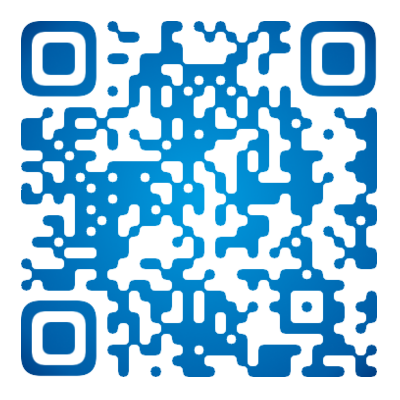
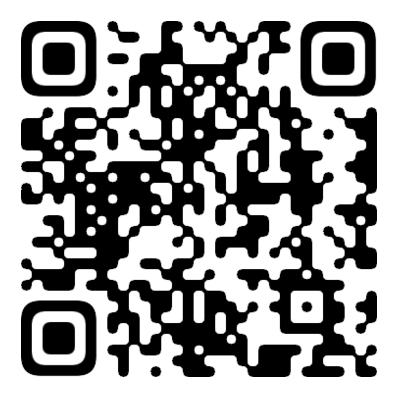
Replace concept QR code with monochrome version

diff --git a/index.html b/index.html
@@ -54,7 +54,7 @@
     <p>Il percorso parte dalla ricerca teorica, passa attraverso il progetto e i modelli tridimensionali, e arriva all’esperienza immersiva in VR. Vorrei accompagnare lo spettatore dalla lettura e dall’osservazione all’esplorazione dello spazio, invitandolo a partecipare alla costruzione dell’esperienza.</p>
     <section class="concept-share" aria-labelledby="concept-share-title">
       <a class="concept-qr" href="https://worldmaking.vercel.app/" target="_blank" rel="noopener noreferrer" aria-label="Apri il sito Worldmaking">
-        <img src="./gallery/worldmaking-qr.png" width="400" height="400" alt="Codice QR per visitare worldmaking.vercel.app">
+        <img src="./gallery/worldmaking-qr.png?v=2" width="400" height="400" alt="Codice QR per visitare worldmaking.vercel.app">
       </a>
       <div>
         <h3 id="concept-share-title">Esplora sul tuo dispositivo</h3>
